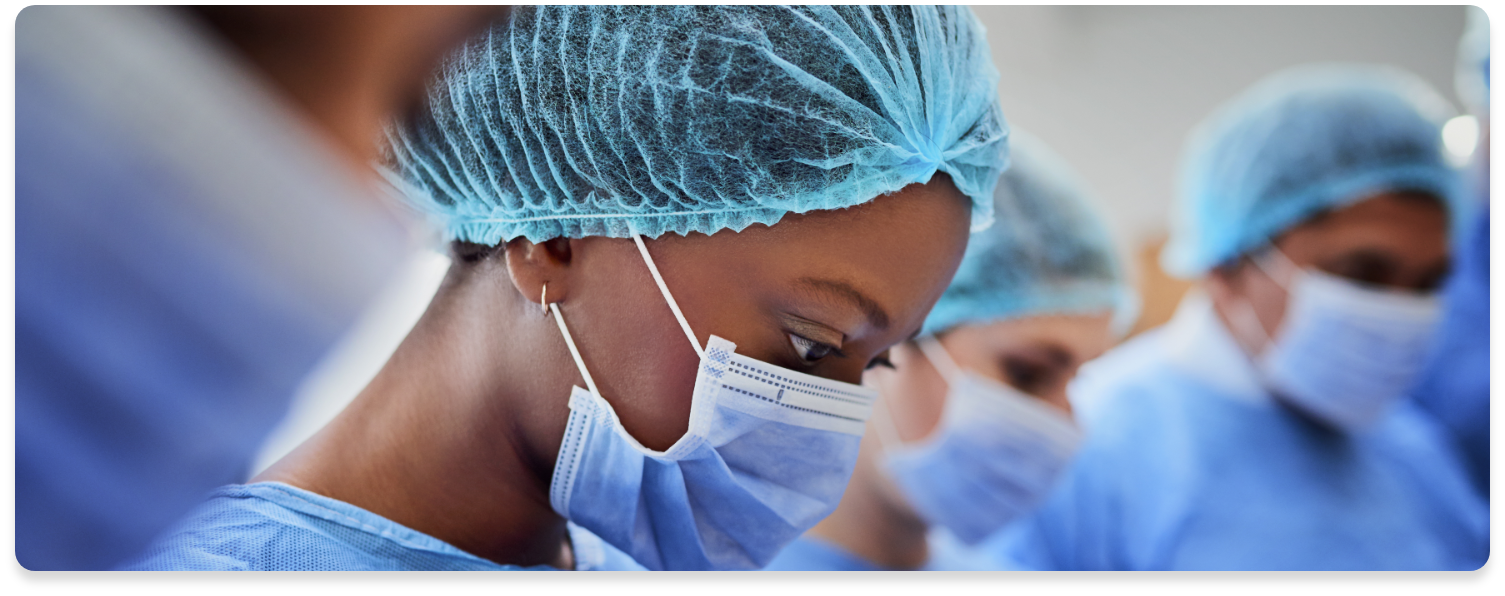
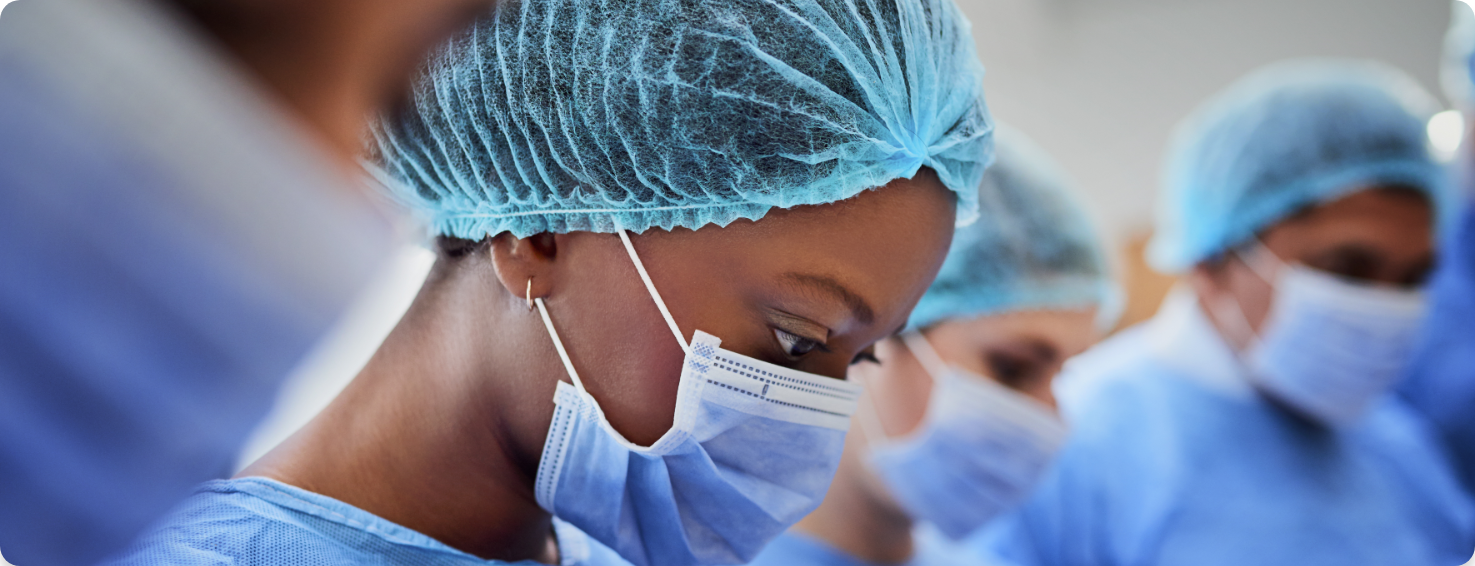
card styles

diff --git a/card-design.html b/card-design.html
@@ -12,7 +12,7 @@
 
   <link href="assets/css/style.css" rel="stylesheet">
 
-  <link href="https://fonts.googleapis.com/css2?family=Roboto+Condensed:ital,wght@0,400;0,700;1,400;1,700&family=Roboto:ital,wght@0,400;0,500;0,700;1,400;1,500;1,700&display=swap" rel="stylesheet">
+  <link href="https://fonts.googleapis.com/css2?family=Roboto+Condensed:ital,wght@0,400;0,700;1,400;1,700&family=Roboto:ital,wght@0,400;0,500;0,700;1,400;1,500;1,700&display=swap" rel="preload">
 
 </head>
 
@@ -38,11 +38,13 @@ max-width:66.25rem;    margin-left: auto;
 
 
 .card-banner {
-  margin: 10px auto;
-  border-radius: 20px;
-  /*box-shadow: 5px 5px 10px rgba(28, 28, 27, 0.3);*/
-  cursor: pointer;
-  transition: 0.4s;
+    margin: 10px auto;
+    border-radius: 20px;
+    overflow: hidden;
+    position: relative;
+    /*box-shadow: 5px 5px 10px rgba(28, 28, 27, 0.3);*/
+    cursor: pointer;
+    transition: 0.4s;
 }
 
 .card_img_right img{
@@ -75,24 +77,25 @@ position: relative;
     flex-direction: row;
     justify-content: space-between;
     max-width: 66rem;
-    margin-left: auto;
-    margin-right: auto;
     position: relative;
-    margin-top: 0;
-    margin-bottom: 0;
- /*   padding-top: 3.75rem;
-    padding-bottom: 3.75rem; */
-
+    margin: 0 auto;
 }
-
 .c-card-01 .card-banner {
-	background-image: url(assets/media/back.png); /* fallback */
-	background-image: linear-gradient(88deg,rgba(0, 0, 0, 0.55) 0%,transparent 80%), url(assets/media/back.png);
-	background-position: center;
-	height:580px;
+    background: url("assets/media/back.png") no-repeat center;
+    background-size: cover;
+    height:580px;
 	width:100%;
 }
-
+.c-card-01 .card-banner:before {
+    content: '';
+    position: absolute;
+    top: 0;
+    right: 0;
+    bottom: 0;
+    left: 0;
+    background: linear-gradient(88deg, rgba(0, 0, 0, 0.55) 0%, transparent 80%);
+    overflow: hidden;
+}
 
 
 .c-card-01 h1{
@@ -118,11 +121,12 @@ position: relative;
 	padding-left: 50px;
 	padding-top: 50px;
 	width: 400px;
+    position: relative;
 }
 
 .c-card-03 {
 	width:49%;
-
+    position: relative;
 }
 
 .c-card-03 .card-banner{
@@ -134,20 +138,19 @@ position: relative;
   text-transform: uppercase;
 
 }
- .c-card-03 .bg{
- background-image: url(assets/media/back.png); /* fallback */
-
-background-image: linear-gradient(180deg,rgba(0, 0, 0, 0.7) 0%,transparent 80%), url(assets/media/back.png);
-background-image: linear-gradient(180deg,rgba(0, 0, 0, 0.7) 0%,transparent 80%), url(assets/img/portrait-img.jpg);
-
-
-
-  height: 500px;
-    background-size:100%;
+.c-card-03 .bg{
+    background: url("assets/img/portrait-img.jpg") no-repeat center;
+    background-size: cover;
     height: 725px;
-    background-position: center;
-    width: 110% 
- background-repeat: no-repeat;
+}
+.c-card-03 .bg:before {
+    content: '';
+    position: absolute;
+    top: 0;
+    right: 0;
+    bottom: 0;
+    left: 0;
+    background: linear-gradient(180deg, rgba(0, 0, 0, 0.55) 0%, transparent 80%);
 }
 
 @media all and (max-width: 500px) {
@@ -176,16 +179,29 @@ background-image: linear-gradient(180deg,rgba(0, 0, 0, 0.7) 0%,transparent 80%),
   }
   
 .tag-ko-01{
-  background-color: #3EC8ED;
-  color: black;
-  font-weight: bold;
-  margin: 0 auto;
-  text-align: center;
-  position: absolute;
-  transform: translate(-50%, -50%);
-  mix-blend-mode: color;
-  vertical-align: baseline;
+  /*background-color: #3EC8ED;*/
+  /*color: black;*/
+  /*font-weight: bold;*/
+  /*margin: 0 auto;*/
+  /*text-align: center;*/
+  /*position: absolute;*/
+  /*transform: translate(-50%, -50%);*/
+  /*mix-blend-mode: color;*/
+  /*vertical-align: baseline;*/
+    -webkit-text-fill-color: transparent;
+    -webkit-background-clip: text;
+    display:block;
   }
+.tag-svg-white {
+    border-radius: 2px;
+    position: relative;
+}
+.tag-svg-white text {
+    font-weight: 700;
+    font-size: 12px;
+    width: 26px;
+    height: 15px;
+}
   
 
   
@@ -331,7 +347,7 @@ float:left;
 }
 .c-card-03, .c-card-03 .bg   {
    /* background-size: 200% 110%; */
-/*width:100%;*/
+    /*width:100%;*/
 }
 .card_img_portrait_right img {
 
@@ -392,8 +408,8 @@ float:left;
 @media (min-width: 481px) and (max-width: 767px) {
 
 .c-card-01 .card-banner {
-	background-image: url(assets/media/back.png); /* fallback */
-	background-image: linear-gradient(180deg,rgba(0, 0, 0, 0.7) 0%,transparent 80%), url(assets/media/back.png);
+	/*background-image: url(assets/media/back.png); !* fallback *!*/
+	/*background-image: linear-gradient(180deg,rgba(0, 0, 0, 0.7) 0%,transparent 80%), url(assets/media/back.png);*/
 
 }
   .c-cards {
@@ -1398,7 +1414,7 @@ margin-bottom:21px;
   </section>
 
 
-  <section class="container pt">
+  <section class="container pt pb">
 
     <div class="c-guide">
 
@@ -1451,79 +1467,6 @@ margin-bottom:21px;
   </section>
 
 
-  <section class="container py">
-
-    <h2 class="heading-01-alt text-center"><strong>3 steps.</strong> Power better work for everyone.</h2>
-
-    <div class="c-block-columns c-block-columns--steps text-center">
-
-      <div class="c-block-columns__col">
-
-        <div class="c-block-columns__item">
-
-          <div class="c-step bg-03">
-            <div class="c-step__inner">
-              #1
-            </div>
-          </div>
-
-          <h3 class="heading-05-alt"><strong>Plan</strong></h3>
-
-          <p>Empower and transform your whole business with features like news, social and enterprise search.</p>
-
-        </div>
-
-      </div>
-
-      <div class="c-block-columns__col">
-
-        <div class="c-block-columns__item">
-
-          <div class="c-step bg-02">
-            <div class="c-step__inner">
-              #2
-            </div>
-          </div>
-
-          <h3 class="heading-05-alt"><strong>Launch</strong></h3>
-
-          <p>Empower and transform your whole business with features like news, social and enterprise search.</p>
-
-        </div>
-
-      </div>
-
-      <div class="c-block-columns__col">
-
-        <div class="c-block-columns__item">
-
-          <div class="c-step bg-04">
-            <div class="c-step__inner">
-              #3
-            </div>
-          </div>
-
-          <h3 class="heading-05-alt"><strong>Grow</strong></h3>
-
-          <p>Empower and transform your whole business with features like news, social and enterprise search.</p>
-
-        </div>
-
-      </div>
-
-    </div>
-	
-	
-
-</div>
-
-  
-  
-  
-
-
-  </section>
-
 <section class="card-section">
 
 
@@ -1535,7 +1478,17 @@ margin-bottom:21px;
 
 <div class="card-banner">
 
-<div class="card-tag"><a href="#" class="tag tag-ko-01">NEW</a></div>
+<div class="card-tag">
+    <svg width="30" height="20" preserveAspectRatio="xMidYMid meet" class="tag-svg-white">
+        <defs>
+            <mask id="mask" x="0" y="0">
+                <rect x="0" y="0" width="30" height="20" fill="#fff"></rect>
+                <text text-anchor="middle"  x="15" y="14" dy="0.5">NEW</text>
+            </mask>
+        </defs>
+        <rect x="0" y="0" width="30" height="20" mask="url(#mask)" fill-opacity="1" style="fill: #fff;" ></rect>
+    </svg>
+</div>
   <div class="c-card-block">
 <h1 class="heading-03-alt" style="color:#fff;"><strong> Feature Store</strong></h1>
 <p style="color:#fff;">Install intranet features in seconds including industry specific experiences, app integrations and lorem ipsum.</p>
@@ -1580,7 +1533,18 @@ margin-bottom:21px;
 
     <div class="c-card-03">
 <div class="card-banner bg">
-<div class="card-tag"><a href="#" class="tag tag-ko-09">NEW</a></div>
+<div class="card-tag">
+    
+    <svg width="30" height="20" preserveAspectRatio="xMidYMid meet" class="tag-svg-white">
+        <defs>
+            <mask id="mask" x="0" y="0">
+                <rect x="0" y="0" width="30" height="20" fill="#fff"></rect>
+                <text text-anchor="middle"  x="15" y="14" dy="0.5">NEW</text>
+            </mask>
+        </defs>
+        <rect x="0" y="0" width="30" height="20" mask="url(#mask)" fill-opacity="1" style="fill: #fff;" ></rect>
+    </svg>
+</div>
   <div class="c-card-block">
 <h1 class="heading-03-alt" style="color:#fff;"><strong>Feature Store</strong></h1>
 <p style="color:#fff;">Empower and transform your whole business with features like news, social and enterprise search.</p>
